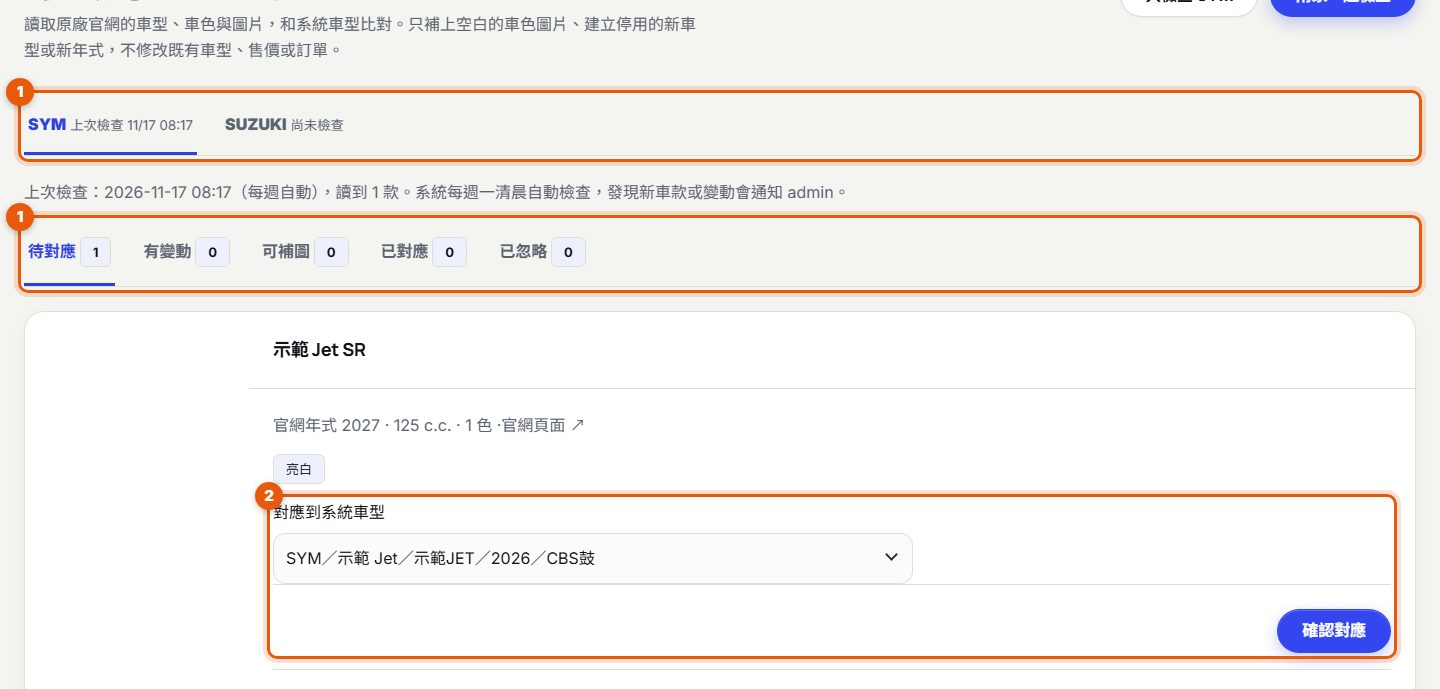
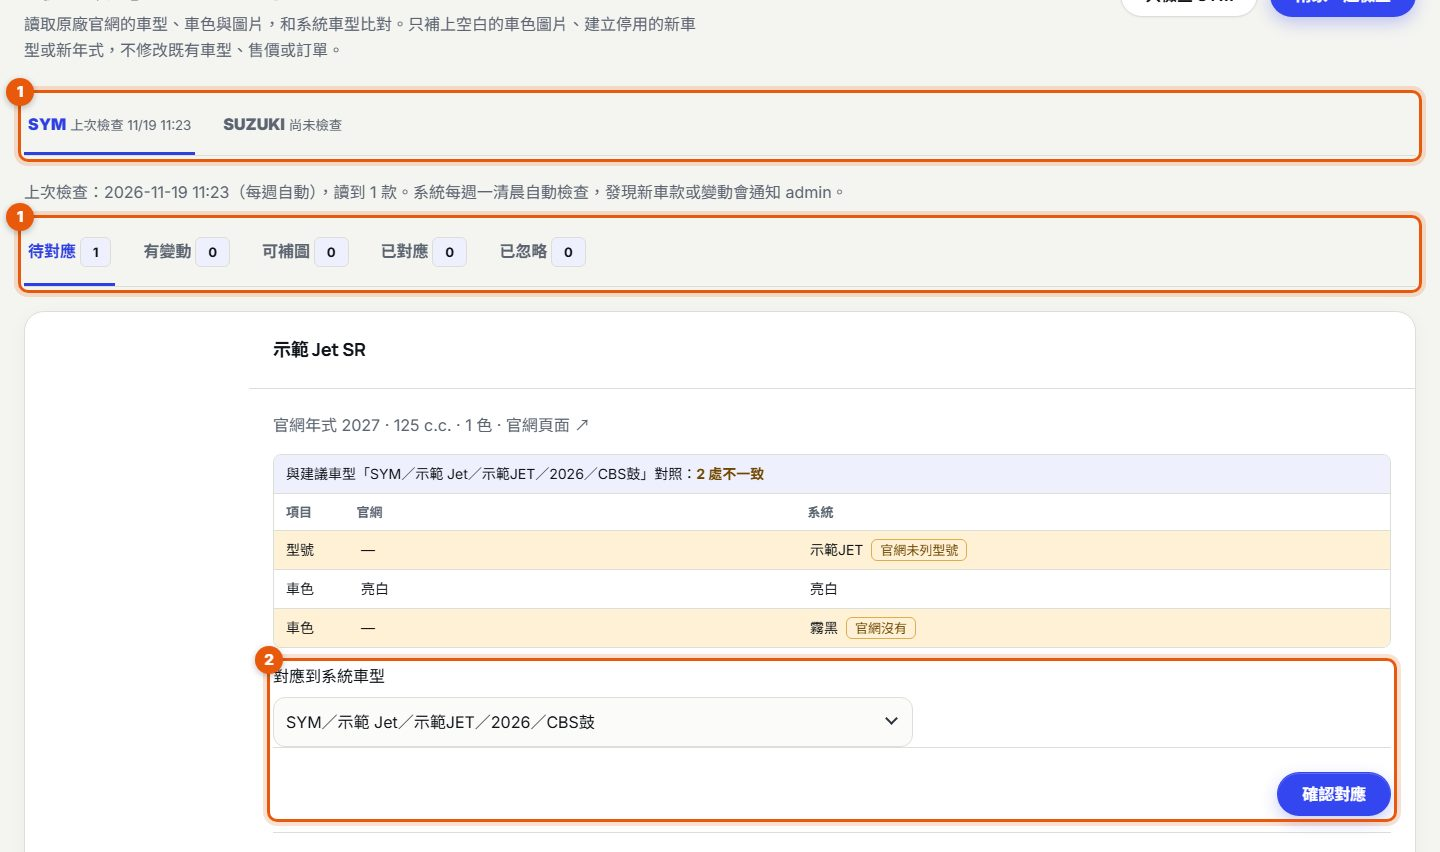
修正說明截圖腳本：只拍 manage 組時統一撥款對帳找不到王小明的單
根因：manage 的「統一撥款對帳」要入帳王小明分期單的撥款，這張單由 create_order 建立；run.py 只在
mainline、topics 時自動帶上 create_order，單獨執行 `run.py manage` 就沒有這張單，畫面上找不到「$69,920」。
- run.py：manage 也自動帶上 create_order。
- 補上後 create_order 會撞到示範伺服器 SQLite「database is locked」（自動儲存／在線狀態與送出同時寫入），
  示範設定改用 transaction_mode=IMMEDIATE、timeout 30 秒。只改截圖用的暫存設定，不影響正式畫面。
- 重跑 `run.py manage` 全段通過。重拍的圖逐張比對，只提交內容實際不同的兩張：
  原廠車型比對（多了與建議車型的對照表）、說明文字管理（T-244 移除 40 筆後的數量）；
  其餘只有日期、單號、磁碟空間或裁切位置不同，維持原檔。

diff --git a/tools/help_screens/run.py b/tools/help_screens/run.py
@@ -30,7 +30,9 @@ SCREENS = ROOT / "static" / "help" / "screens"
 GROUPS = ("reports", "create_order", "mainline", "topics", "basics", "manage")  # reports 先拍（只含 seed 的 30 張）；mainline、topics 接著 create_order 建好的訂單；basics、manage 前先補管理類資料
 
 SETTINGS = '''from config.settings import *  # noqa: F401,F403
-DATABASES = {{"default": {{"ENGINE": "django.db.backends.sqlite3", "NAME": r"{db}"}}}}
+# 示範伺服器同時處理自動儲存、在線狀態與送出，SQLite 交易一律先取寫入鎖並等待，避免「database is locked」。
+DATABASES = {{"default": {{"ENGINE": "django.db.backends.sqlite3", "NAME": r"{db}",
+                         "OPTIONS": {{"transaction_mode": "IMMEDIATE", "timeout": 30}}}}}}
 MEDIA_ROOT = r"{media}"
 ALLOWED_HOSTS = ["127.0.0.1", "localhost", "testserver"]
 '''
@@ -86,7 +88,8 @@ def main(groups):
                 state = login.storage_state()
                 login.close()
                 for name in GROUPS:
-                    needs_wang = name == "create_order" and ({"mainline", "topics"} & set(groups))
+                    # mainline、topics、manage（統一撥款對帳要入帳王小明的分期撥款）都接著 create_order 建好的王小明訂單。
+                    needs_wang = name == "create_order" and ({"mainline", "topics", "manage"} & set(groups))
                     if name not in groups and not needs_wang:
                         continue
                     if name in {"basics", "manage"} and not facts.get("manage_seeded"):
